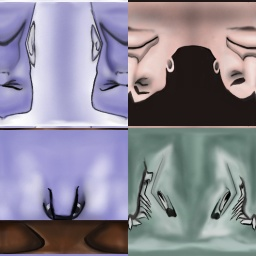
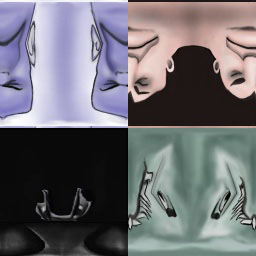
Boardbot code update

Changed region(s): [[0.0, 0.5, 0.5, 1.0]]

diff --git a/Boardbot Code Files (Needs to be fixed)/toontown/toonbase/TTLocalizerEnglish.py b/Boardbot Code Files (Needs to be fixed)/toontown/toonbase/TTLocalizerEnglish.py
@@ -2301,10 +2301,10 @@ SuitMoneyBags = 'Money Bags'
 SuitLoanShark = 'Loan Shark'
 SuitRobberBaron = 'Robber Baron'
 SuitConman = 'Conman'
-SuitPlaceholder2 = 'Placeholder2'
-SuitPlaceholder3 = 'Placeholder3'
-SuitPlaceholder4 = 'Placeholder4'
-SuitPlaceholder5 = 'Placeholder5'
+SuitPlaceholder2 = 'Tycoon'
+SuitPlaceholder3 = 'Magnate'
+SuitPlaceholder4 = 'Big Shot'
+SuitPlaceholder5 = 'Proprietor'
 SuitToxicLeader = 'Toxic Leader'
 SuitBigFish = 'Big Fish'
 SuitHeadHoncho = 'Head Honcho'
@@ -2341,10 +2341,10 @@ SuitMoneyBagsS = 'a Money Bags'
 SuitLoanSharkS = 'a Loan Shark'
 SuitRobberBaronS = 'a Robber Baron'
 SuitConmanS = 'a Conman'
-SuitPlaceholder2S = 'a Placeholder2'
-SuitPlaceholder3S = 'a Placeholder3'
-SuitPlaceholder4S = 'a Placeholder4'
-SuitPlaceholder5S = 'a Placeholder5'
+SuitPlaceholder2S = 'a Tycoon'
+SuitPlaceholder3S = 'a Magnate'
+SuitPlaceholder4S = 'a Big Shot'
+SuitPlaceholder5S = 'a Proprietor'
 SuitToxicLeaderS = 'a Toxic Leader'
 SuitBigFishS = 'a Big Fish'
 SuitHeadHonchoS = 'a Head Honcho'
@@ -2381,10 +2381,10 @@ SuitMoneyBagsP = 'Money Bags'
 SuitLoanSharkP = 'Loan Sharks'
 SuitRobberBaronP = 'Robber Barons'
 SuitConmanP = 'Conmen'
-SuitPlaceholder2P = 'Placeholder2s'
-SuitPlaceholder3P = 'Placeholder3s'
-SuitPlaceholder4P = 'Placeholder4s'
-SuitPlaceholder5P = 'Placeholder5s'
+SuitPlaceholder2P = 'Tycoons'
+SuitPlaceholder3P = 'Magnates'
+SuitPlaceholder4P = 'Big Shots'
+SuitPlaceholder5P = 'Proprietors'
 SuitToxicLeaderP = 'Toxic Leaders'
 SuitBigFishP = 'Big Fish'
 SuitHeadHonchoP = 'Head Honchos'

diff --git a/Boardbot Code Files (Needs to be fixed)/toontown/suit/SuitGlobals.py b/Boardbot Code Files (Needs to be fixed)/toontown/suit/SuitGlobals.py
@@ -17,12 +17,12 @@ ColdCallerHead = VBase4(0.25, 0.35, 1.0, 1.0) # Head used by Cold Caller
                
                  #Boardbots
 suitProperties = {'cm': (4.0 / cSize, SuitDNA.boardPolyColor, ['tightwad'], 'conman.jpg', 4.81),
-                  'b2': (3.75 / bSize, SuitDNA.boardPolyColor, ['telemarketer'], '', 5.24),
-                  'b3': (4.35 / bSize, SuitDNA.boardPolyColor, ['telemarketer'], '', 5.24),
-                  'b4': (4.75 / bSize, SuitDNA.boardPolyColor, ['telemarketer'], '', 5.24),
-                  'b5': (4.75 / bSize, SuitDNA.boardPolyColor, ['telemarketer'], '', 5.24),
+                  'b2': (3.375 / bSize, SuitDNA.boardPolyColor, ['movershaker'], 'tycoon.jpg', 5.24),
+                  'b3': (4.5 / aSize, SuitDNA.boardPolyColor, ['legaleagle'], 'suit-heads_palette_3cmla_22.jpg', 5.5),
+                  'b4': (5.3 / cSize, VBase4(0.95, 0.95, 1.0, 1.0), ['gladhander'], '', 6.7),
+                  'b5': (4.75 / aSize, SuitDNA.boardPolyColor, ['telemarketer'], 'proprietor.jpg', 5.24),
                   'tl': (5.25 / aSize, VBase4(1, 1, .29, 1.0), ['toxicleader'], '', 6.95),
-                  'bfh': (7.8 / cSize, VBase4(1, .3, .3, 1.0), ['bigfish'], '', 9.7),
+                  'bfh': (7.8 / cSize, VBase4(1, .3, .3, 1.0), ['bigfish'], '', 10.0),
                   'hho': (7.0 / aSize, SuitDNA.boardPolyColor, ['headhoncho'], 'head-honcho.jpg', 8.95),
                   #Bossbots
                   'f': (4.0 / cSize, SuitDNA.corpPolyColor, ['flunky', 'glasses'], '', 4.88),

diff --git a/Boardbot Code Files (Needs to be fixed)/toontown/shtiker/DisguisePage.py b/Boardbot Code Files (Needs to be fixed)/toontown/shtiker/DisguisePage.py
@@ -34,19 +34,19 @@ class DisguisePage(ShtikerPage.ShtikerPage):
         self.tabs = []
         self.pageFrame = DirectFrame(parent=self.frame, relief=None)
         for dept in SuitDNA.suitDepts:
-            if dept == 't':
+            if dept == 'c':
                 tabIndex = 1
                 textPos = (1.57, 0.75)
-            elif dept == 'c':
+            elif dept == 'l':
                 tabIndex = 2
                 textPos = (1.57, 0.12)
-            elif dept == 'l':
+            elif dept == 'm':
                 tabIndex = 3
                 textPos = (1.57, -0.47)
-            elif dept == 'm':
+            elif dept == 's':
                 tabIndex = 4
                 textPos = (1.57, -1.05)
-            elif dept == 's':
+            elif dept == 't':
                 tabIndex = 5
                 textPos = (1.57, -1.40)
             pageGeom = gui.find('**/page%d' % tabIndex)
@@ -187,7 +187,7 @@ class DisguisePage(ShtikerPage.ShtikerPage):
             self.progressTitle = self.cogbuckTitle
         elif SuitDNA.suitDepts[index] == 'l':
             self.progressTitle = self.juryNoticeTitle
-        elif SuitDNA.suitDepts[index] == 'bd':
+        elif SuitDNA.suitDepts[index] == 't':
             self.progressTitle = self.boardGearsTitle
         elif SuitDNA.suitDepts[index] == 'c':
             self.progressTitle = self.stockOptionTitle

diff --git a/Boardbot Code Files (Needs to be fixed)/toontown/toon/DistributedToonAI.py b/Boardbot Code Files (Needs to be fixed)/toontown/toon/DistributedToonAI.py
@@ -4307,14 +4307,14 @@ def maxToon(missingTrack=None):
     # Max out their Cog suits:
     target.b_setCogParts(
         [
-            CogDisguiseGlobals.PartsPerSuitBitmasks[0],  # Boardbot
-            CogDisguiseGlobals.PartsPerSuitBitmasks[1],  # Bossbot
-            CogDisguiseGlobals.PartsPerSuitBitmasks[2],  # Lawbot
-            CogDisguiseGlobals.PartsPerSuitBitmasks[3],   # Cashbot
-            CogDisguiseGlobals.PartsPerSuitBitmasks[4],   # Sellbot
+            CogDisguiseGlobals.PartsPerSuitBitmasks[0], # Bossbot
+            CogDisguiseGlobals.PartsPerSuitBitmasks[1], # Lawbot
+            CogDisguiseGlobals.PartsPerSuitBitmasks[2], # Cashbot
+            CogDisguiseGlobals.PartsPerSuitBitmasks[3], # Sellbot
+            CogDisguiseGlobals.PartsPerSuitBitmasks[4], # Boardbot
         ]
     )
-    target.b_setCogLevels([13] * 5)
+    target.b_setCogLevels([12] * 5)
     target.b_setCogTypes([7, 7, 7, 7, 7])
 
     # Max their Cog gallery:
